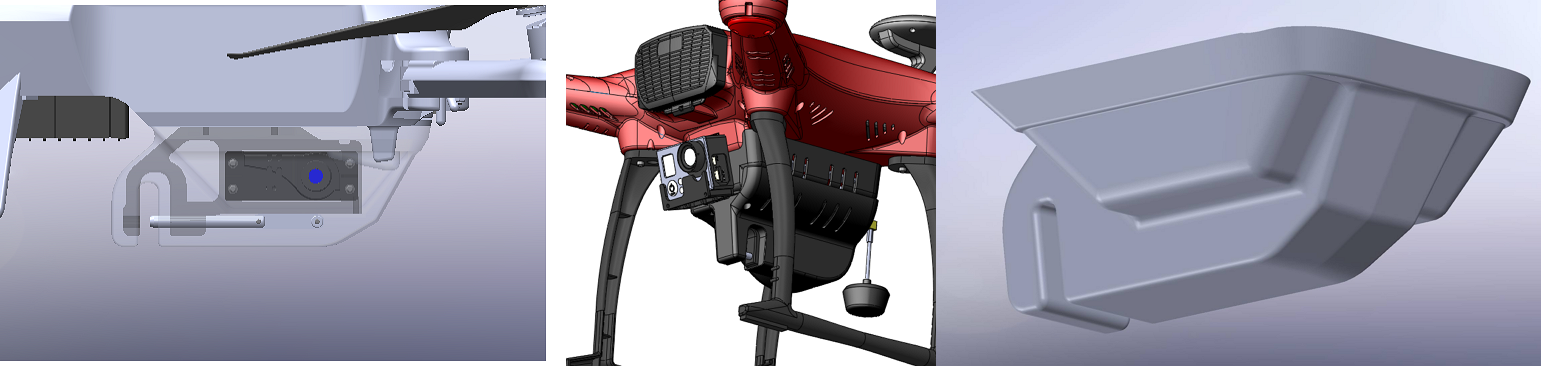
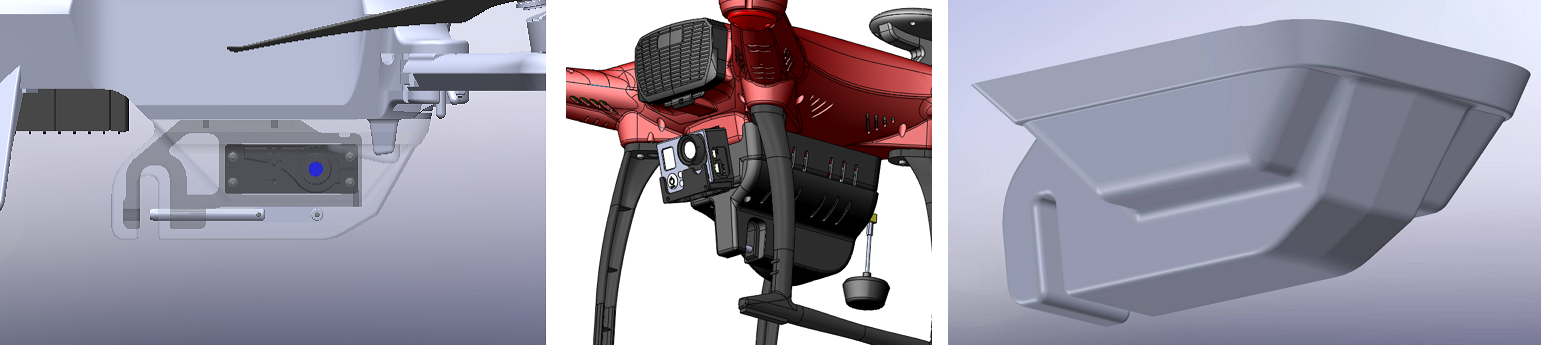
motor img scale

diff --git a/src/components/Motor.vue b/src/components/Motor.vue
@@ -9,7 +9,7 @@
     </div>
 
     <!-- 基本概念 -->
-    <q-card class="q-mb-md">
+    <q-card class="q-mb-xl">
       <q-card-section>
         <div class="text-h6">電能轉機械能</div>
         <p>
@@ -17,37 +17,18 @@
           廣泛應用於風扇、洗衣機、電動車與工業設備，
           是自動化與機械化的核心元件。
         </p>
-        <q-img
-          class="q-mx-md"
-          src="./statics/CAR電裝.png"
-          style="width: 200px; height: 100px"
-          fit="cover"
-        />
-        <q-img
-          class="q-mx-md"
-          src="./statics/shopee-CZQOGGCn.png"
-          style="width: 100px; height: 200px"
-          fit="cover"
-        />
-        <q-img
-          class="q-mx-md"
-          src="./statics/ESC-BVqpSlT6.png"
-          style="width: 200px; height: 200px"
-          fit="cover"
-        />
-        <!-- <q-img
-          class="q-mx-md"
-          src="./statics/bettery-D6dlTMAi.png"
-          style="width: 130px; height: 200px"
-          fit="cover"
-        /> -->
-        <q-img
-          class="q-mx-md"
-          src="./statics/brushMotor-GrhOnz2-.png"
-          style="width: 150px; height: 200px"
-          fit="cover"
-        />
       </q-card-section>
+      <!-- 1⃣ 整機照片 DC10 web -->
+      <div style="text-align: center">
+        <q-img
+          v-for="img in bgImgs"
+          :key="img"
+          :src="img"
+          class="thumb"
+          @click="open(img)"
+          fit="cover"
+        />
+      </div>
     </q-card>
 
     <!-- 馬達種類 -->
@@ -69,25 +50,24 @@
     <hr />
     <br />
     <q-card class="q-mb-md">
-          <q-card-section>
-            <div class="text-h6">無刷馬達應用概念</div>
+      <q-card-section>
+        <div class="text-h6">無刷馬達應用概念</div>
 
-            <ul>
-              <li>KV 值：每 Volt 對應轉速（RPM）</li>
-              <li>轉速 = KV × 電壓</li>
-              <li>ESC 必須匹配電壓 / 電流 / 極數</li>
-              <li>實務需搭配電池與測試（避免燒毀）</li>
-            </ul>
+        <ul>
+          <li>KV 值：每 Volt 對應轉速（RPM）</li>
+          <li>轉速 = KV × 電壓</li>
+          <li>ESC 必須匹配電壓 / 電流 / 極數</li>
+          <li>實務需搭配電池與測試（避免燒毀）</li>
+        </ul>
 
-            <q-banner class="bg-grey-3 q-mt-sm">
-              範例：7.4V × 3300KV ≈ 24420 RPM
-            </q-banner>
-          </q-card-section>
-        </q-card>
+        <q-banner class="bg-grey-3 q-mt-sm">
+          範例：7.4V × 3300KV ≈ 24420 RPM
+        </q-banner>
+      </q-card-section>
+    </q-card>
     <!-- ------- -->
     <div class="row q-col-gutter-md">
       <!-- 無刷馬達 -->
-
 
       <!-- RC 車參數 -->
       <div class="col-12 col-sm-6 col-md-4 col-lg-3">
@@ -125,19 +105,23 @@
         <q-card class="q-mb-md">
           <q-card-section>
             <!-- <div class="text-h6">速度計算對照表</div> -->
+
             <q-img
-              class="q-mx-md"
-              src="./statics/hoursePower-BSHlZRZZ.png"
+              v-for="img in horseImgs"
+              :key="img"
+              :src="img"
+              class="thumb"
               style="width: 350px; height: 200px"
+              @click="open(img)"
               fit="cover"
+            />
+            <div
+              class="absolute-bottom text-white text-subtitle2 q-pa-sm"
+              style="text-shadow: 0 0 3px black; font-size: 33px"
             >
-              <div
-                class="absolute-bottom text-white text-subtitle2 q-pa-sm"
-                style="text-shadow: 0 0 3px black"
-              >
-                {{ "馬力計算" }}
-              </div>
-            </q-img>
+              {{ "馬力計算" }}
+            </div>
+            <!-- </q-img> -->
           </q-card-section>
         </q-card>
       </div>
@@ -145,20 +129,22 @@
       <div class="col-12 col-sm-6 col-md-4 col-lg-3">
         <q-card class="q-mb-md">
           <q-card-section>
-            <!-- <div class="text-h6">速度計算對照表</div> -->
             <q-img
-              class="q-mx-md"
-              src="./statics/TN 曲線.png"
+              v-for="img in horseRelationImgs"
+              :key="img"
+              :src="img"
+              class="thumb"
               style="width: 350px; height: 200px"
+              @click="open(img)"
               fit="cover"
+            />
+            <div
+              class="absolute-bottom text-white text-subtitle2 q-pa-sm"
+              style="text-shadow: 0 0 3px black; font-size: 33px"
             >
-              <div
-                class="absolute-bottom text-white text-subtitle2 q-pa-sm"
-                style="text-shadow: 0 0 3px black"
-              >
-                {{ "馬力關係圖" }}
-              </div>
-            </q-img>
+              {{ "馬力關係圖" }}
+            </div>
+            <!-- </q-img> -->
           </q-card-section>
         </q-card>
       </div>
@@ -188,20 +174,22 @@
       <div class="col-12 col-sm-6 col-md-4 col-lg-3">
         <q-card class="q-mb-md">
           <q-card-section>
-            <!-- <div class="text-h6">速度計算對照表</div> -->
             <q-img
-              class="q-mx-md"
-              src="./statics/gear-speed-BcVXBs7g.png"
+              v-for="img in gearImgs"
+              :key="img"
+              :src="img"
+              class="thumb"
               style="width: 250px; height: 200px"
+              @click="open(img)"
               fit="cover"
+            />
+
+            <div
+              class="absolute-bottom text-white text-subtitle2 q-pa-sm"
+              style="text-shadow: 0 0 3px black; font-size: 33px"
             >
-              <div
-                class="absolute-bottom text-white text-subtitle2 q-pa-sm"
-                style="text-shadow: 0 0 3px black"
-              >
-                {{ "遙控模型車 齒輪比 車速 轉換表" }}
-              </div>
-            </q-img>
+              {{ "齒輪比 車速 轉換表" }}
+            </div>
           </q-card-section>
         </q-card>
       </div>
@@ -244,12 +232,22 @@
           <q-card-section horizontal>
             <q-card-section>
               <!-- {{ lorem }} -->
-              🔹單線圖（單一線路圖）<br />用一條線與符號表示三相或單相配電系統的主要電力流向、配電設備與保護元件。<br /><br />
+              🔹單線圖（單一線路圖 Single-line diagram）<br />用一條線與符號表示三相或單相配電系統的主要電力流向、配電設備與保護元件。<br /><br />
               重點是「簡潔呈現主幹結構」：電源 → 主開關／斷路器 → 配電盤 →
               分路保護 → 負載。
             </q-card-section>
 
-            <q-img class="col-5" style="width: 100px; height: 200px" src="./statics/singleWire.png" />
+            <q-img
+              v-for="img in singleLineDiagramImgs"
+              :key="img"
+              :src="img"
+              class="thumb"
+              style="width: 200px; height: 200px"
+              @click="open(img)"
+              fit="cover"
+            />
+
+
           </q-card-section>
         </q-card>
       </div>
@@ -259,7 +257,7 @@
           <q-card-section horizontal>
             <q-card-section>
               🔹單線圖常見層級（由上到下）<br />
-              1.市電 / 變電所進線（含開關箱、戶外電表） 主開關 /<br />
+              1.市電 / 變電所進線（含開關箱、戶外電表） 主開關 <br />
               2.主斷路器（MCCB）（含主接地）<br />
               3.主母線 / 分配母線（Bus）<br />
             </q-card-section>
@@ -286,7 +284,24 @@
               讓副繞組電流產生相位差，創造類似「兩相電源」的旋轉磁場，使電機能夠自行啟動，並在某些設計裡改善運行效率。
             </q-card-section>
 
-            <q-img class="col-5 q-ml-auto" style="width: 100px; height: 200px" src="./statics/1MotorAmp.png" />
+            <!-- <q-img
+              class="col-5 q-ml-auto"
+              style="width: 100px; height: 200px"
+              src="./statics/1MotorAmp.png"
+            /> -->
+
+
+            <q-img
+              v-for="img in onemotorImgs"
+              :key="img"
+              :src="img"
+              class="thumb"
+              style="width: 300px; height: 200px"
+              @click="open(img)"
+              fit="cover"
+            />
+
+
           </q-card-section>
         </q-card>
       </div>
@@ -302,7 +317,25 @@
               分配到各個迴路（照明、插座、空調、動力）。<br />
               戶外防水型: IP54 / IP65 等防塵防水等級，應用於施工現場或戶外設備。
             </q-card-section>
-            <q-img class="col-5 q-ml-auto" style="width: 100px; height: 200px" src="./statics/controlBox.png" />
+
+
+            <!-- <q-img
+              class="col-5 q-ml-auto"
+              style="width: 100px; height: 200px"
+              src="./statics/controlBox.png"
+            /> -->
+
+            <q-img
+              v-for="img in controlboxImgs"
+              :key="img"
+              :src="img"
+              class="thumb"
+              style="width: 250px; height: 200px"
+              @click="open(img)"
+              fit="cover"
+            />
+
+
           </q-card-section>
         </q-card>
       </div>
@@ -337,12 +370,53 @@
         </p>
       </q-card-section>
     </q-card>
+    <!-- joey 共用圖片放大 -->
+    <q-dialog v-model="show">
+      <q-card class="viewer">
+        <q-img :src="currentImg" fit="contain" class="full-img" />
+      </q-card>
+    </q-dialog>
   </q-page>
 </template>
 
 <script setup>
-import classCtree from 'components/classCtree.vue'
-import classCtimeLine from 'components/classCtimeLine.vue'
+import classCtree from "components/classCtree.vue";
+import classCtimeLine from "components/classCtimeLine.vue";
+
+import { ref } from "vue";
+
+/* ========================
+   🔥 共用圖片 viewer
+======================== */
+const show = ref(false);
+const currentImg = ref("");
+
+function open(img) {
+  currentImg.value = img;
+  show.value = true;
+}
+
+/* ========================
+   🔥 圖片資料（public/img）
+======================== */
+const bgImgs = [
+  "/img/shopee-CZQOGGCn.png",
+  "/img/brushMotor-GrhOnz2-.png",
+  "/img/ESC-BVqpSlT6.png",
+  "/img/CAR電裝.png",
+];
+// hoursePower-BSHlZRZZ.png
+const horseImgs = ["/img/hoursePower-BSHlZRZZ-BSHlZRZZ.png"];
+const horseRelationImgs = ["/img/TN 曲線.png"];
+const gearImgs = ["/img/gear-speed-BcVXBs7g-BcVXBs7g.png"];
+const singleLineDiagramImgs = ["/img/singleWire-GlzRfPLN.png"];
+
+const onemotorImgs = ["/img/1MotorAmp-Dh2xu9BK.png"];
+
+const controlboxImgs = ["/img/controlBox-BsHczrZh.png"];
+
+
+
 const motors = [
   {
     title: "DC 馬達",
@@ -370,3 +444,30 @@ const motors = [
   },
 ];
 </script>
+
+<style scoped>
+body {
+  background: #f5f5f5;
+}
+.thumb {
+  /* width: 120px; */
+  width: 99px;
+  height: 10%;
+  border: 1px solid #f6c3c3; /* 粗細、樣式、顏色 */
+  box-sizing: border-box; /* 確保邊框計入 width，不跑版 */
+  border-radius: 12px;
+  margin :4px;
+  cursor: zoom-in;
+}
+/* display: block; 避免圖片下方出現空白間隙 */
+
+.viewer {
+  width: 90vw;
+  height: 90vh;
+}
+
+.full-img {
+  width: 100%;
+  height: 100%;
+}
+</style>

diff --git a/src/components/classC.vue b/src/components/classC.vue
@@ -56,7 +56,7 @@
         <!-- <q-icon name="terrain" size="56px" /> -->
         <q-img
           src="./statics/controlBOX2.jpg"
-          style="width: 450px; height: 150px; border-radius: 8px"
+          style="width: 620px; height: 150px; border-radius: 8px"
         />
         <div class="q-mt-md text-center">
           電工的工作內容包括：設計、安裝與維修電氣設備及配線系統，確保電力系統安全且穩定運行。負責更換老舊電線、插座、開關與斷路器，並進行馬達及控制電路的維修與保養。同時執行漏電檢測、絕緣測試及接地電阻測試，以確保設備符合安全規範。依據單線圖進行電氣設備接線與配電系統的組裝與架構配置。        </div>

diff --git a/src/components/DC10.vue b/src/components/DC10.vue
@@ -193,7 +193,7 @@
       </q-card-section>
     </q-card>
 
-    <!-- 共用圖片放大 -->
+    <!-- joey 共用圖片放大 -->
     <q-dialog v-model="show">
       <q-card class="viewer">
         <q-img :src="currentImg" fit="contain" class="full-img" />
